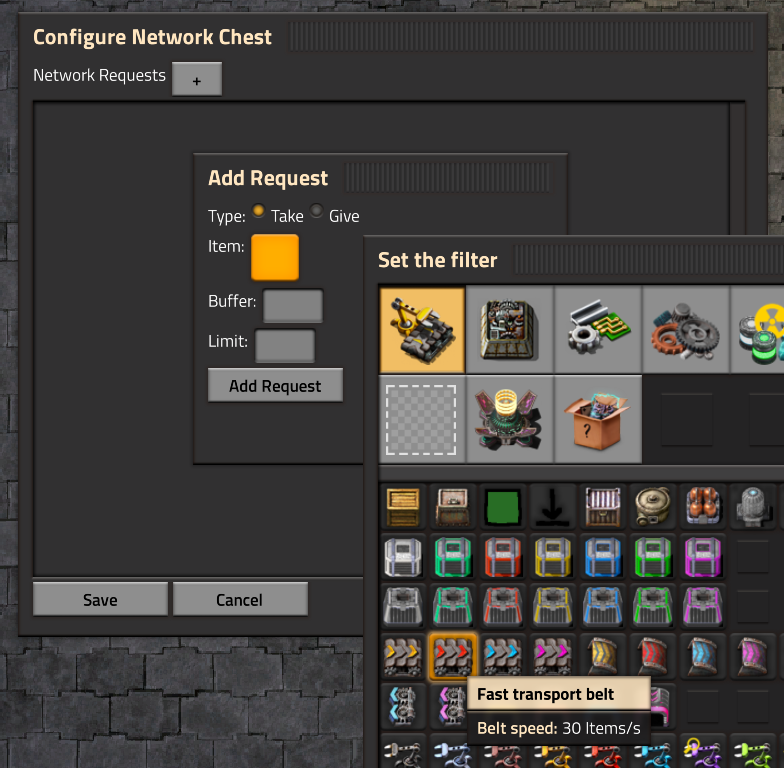
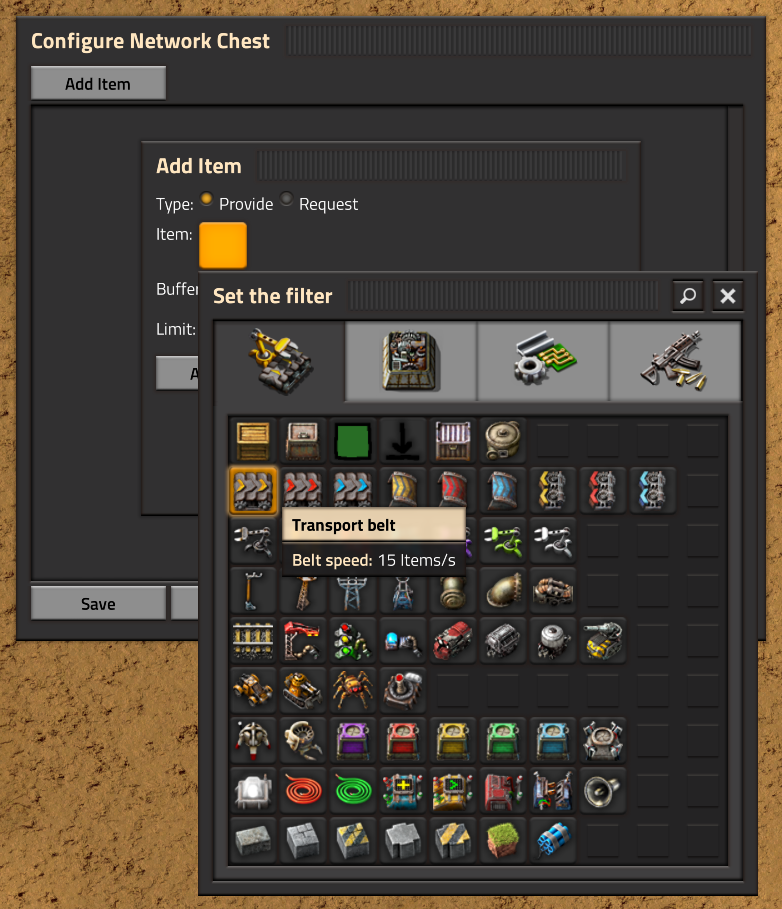
update readme

diff --git a/README.md b/README.md
@@ -8,21 +8,21 @@ It does this by adding a new item called "Network Chest" which serves as an acce
 
 This approach scales well for everything from a seldom-used mall to moving vast quantities of items.
 
-For example, here's a mall powered entirely by network chests:
-![Mall](/readme-pictures/mall.png)
-
-And here's a single chest that can continuously transport 4 blue lanes of iron ore at once.
-![Iron Transport](/readme-pictures/large-scale-iron.png)
-
 This mod also adds a Network Loader which is just a normal loader for transporting full lanes of items in and out of network chests. Inserters also work with network chests but loaders often lead to cleaner designs.
 
-Both Network Chests and Network Loaders are enabled without research and can be crafted without any items. These items might work well locked behind an endgame technology and require a ton of ingredients but for now it's more fun to have them available from the start.
+Here's an example of moving 128 blue belts of copper ore where almost every belt is saturated. In addition to the 128 network chests in this picture, this world has 2084 network chests with half dedicated to moving copper and the other half moving other items.
+![128 Belts of copper](/readme-pictures/2048-chest-test-consistency.png)
 
-Network chests give and take items randomly for equal distribution to all chests which means belt balancers are no longer needed.
+And here's a mall powered entirely by network chests:
+![Mall](/readme-pictures/mall.png)
+
+Both Network Chests and Network Loaders are enabled without research and can be crafted without any items. While it might be more fair to lock these items behind endgame research expensive ingredients, it's more fun to have them available from the start.
+
+Network chests make belt balancers obsolete because they update randomly to ensure fairness.
 
 ### Target Audience
 
-There is no doubt that this mod is cheating and defeats the purpose of many existing transportation mechanics like trains and logistic chests. If trains work well for you then you probably don't need this mod. This mod is instead intended for:
+There is no doubt that this mod is cheating and defeats the purpose of many existing transportation mechanics like trains and bots. If trains work well for you then you probably don't need this mod. This mod is instead intended for:
 
 - Players who have already built large transportation layers and are ready for something simpler that scales better than trains.
 - Players who want to rebuild small parts of their spaghetti base without rebuilding the entire factory.
@@ -35,15 +35,15 @@ In short, this mod is for players who want a logistics solution that gets out of
 
 Network chests have a custom UI to configure requests that can be accessed by clicking on the chest.
 
-Each chest has a list of requests. "Take" requests take items from the network and "Give" requests give items to the network.
+Each chest has a list of items where the chest either requests or provides each item.
 
 ![Adding a request](/readme-pictures/add-new-item.png)
 ![Chest with a request](/readme-pictures/chest-with-request.png)
 
 Each request has a "limit" and "buffer" defined as follows:
 
-- Take "item" from the network when there are more than "limit" items in the network and store "buffer" in this chest.
-- Give "item" to the network when there are less than "limit" items in the network and store "buffer" in this chest.
+- Provide `item` from the network when there is more than `limit` in the network and store `buffer` items in this chest.
+- Request `item` to give to the network when there is less than `limit` in the network and store `buffer` items in this chest.
 
 This method of defining requests is easy to use but also allows for complex production loops with both custom input and output priorities.
 
@@ -79,7 +79,9 @@ Fluids cannot be directly transported through the network and instead need to be
 
 ### Performance
 
-This mod is tuned to take about 1-2ms every tick and does a fixed amount of work on every tick. While this is a lot of time for each tick, this mod also does a lot of work to transport all items for an entire base. For larger bases this overhead is comparable to the render time for belts and trains.
+This mod is tuned to take about 1-3ms every tick and does a fixed amount of work on every tick. While this is a lot of time for each tick, this mod also does a lot of work to transport all items for an entire base. For larger bases this overhead is comparable to the render time for belts, trains and bots.
+
+On the test world with 2048 network chests and 4096 loaders, the mod takes 2.5ms per tick which is about half the game update time on my computer.
 
 Internally the mod maintains a circular buffer of every network chest. On every tick it randomly pops off 20 chests and updates their contents by either giving items to the network or taking items from the network.
 
@@ -91,6 +93,7 @@ This mod has been tested in the following ways:
 
 - Launched a rocket in vanilla Factorio with 10x science.
 - Reached the "Quantum Age" in Exotic Industries (so far!).
+- Created a sandbox world with 2048 chests and 4096 loaders.
 - Unit tested the circular buffer implementation.
 
 This is plenty of play time to test:
